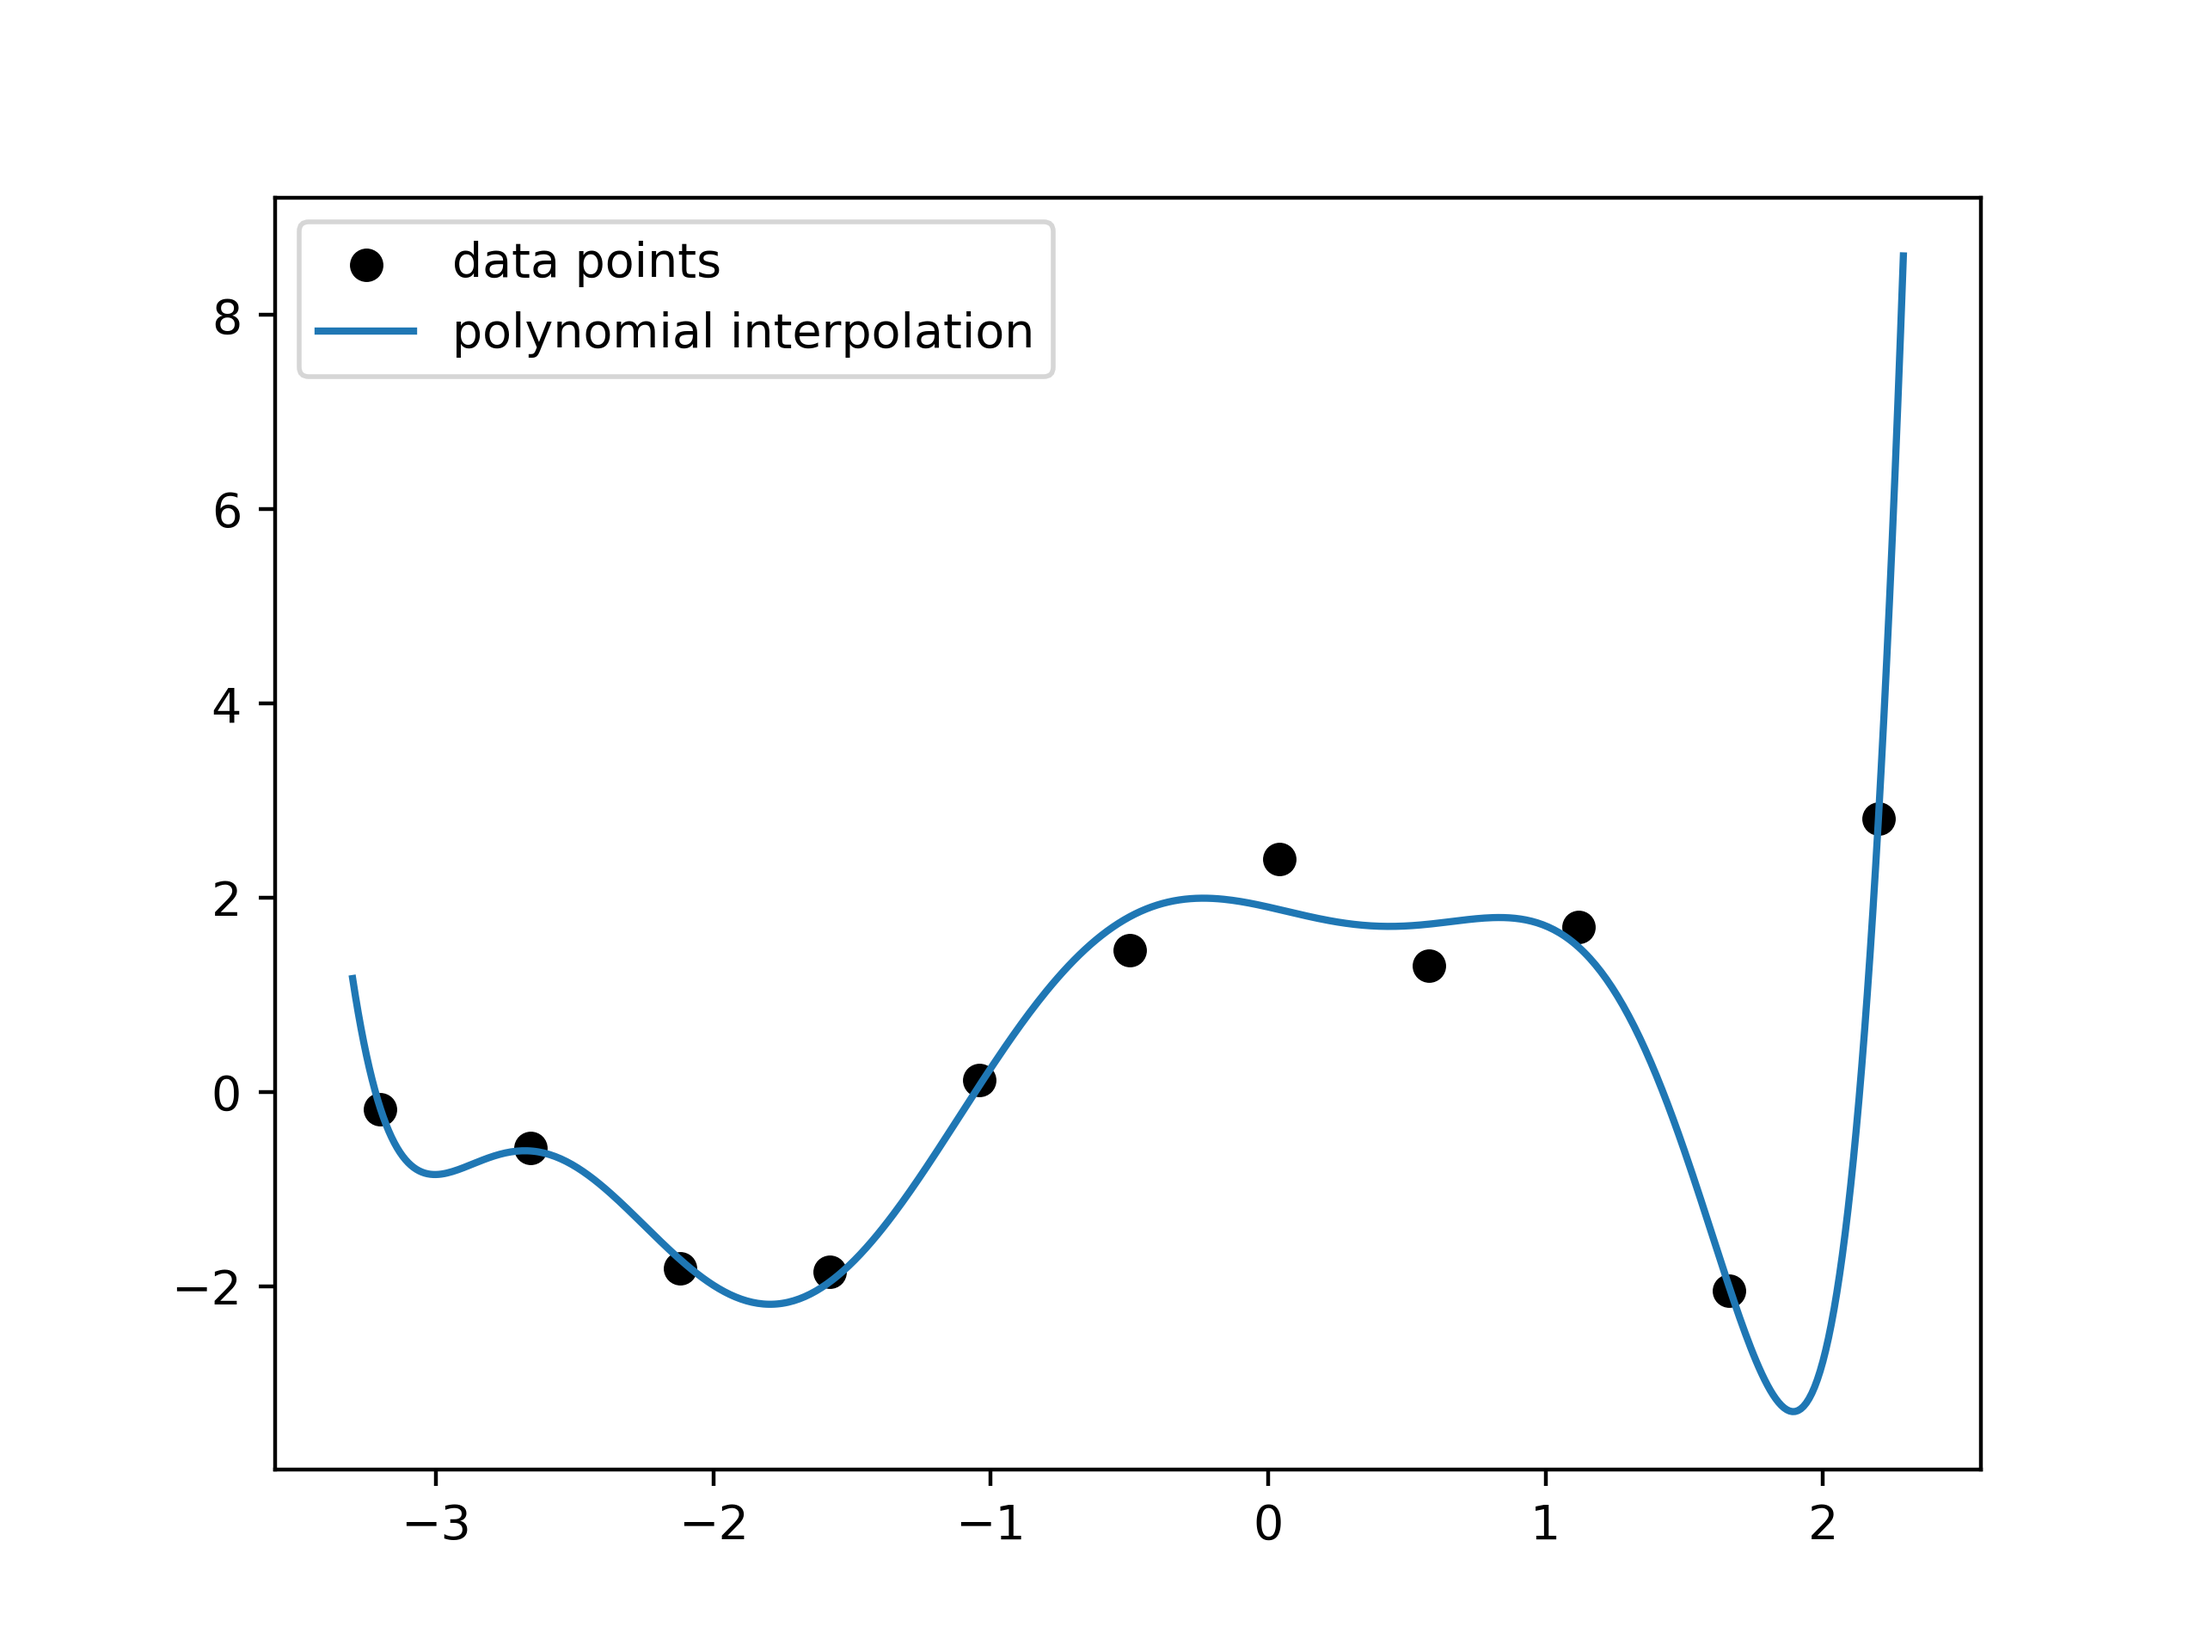
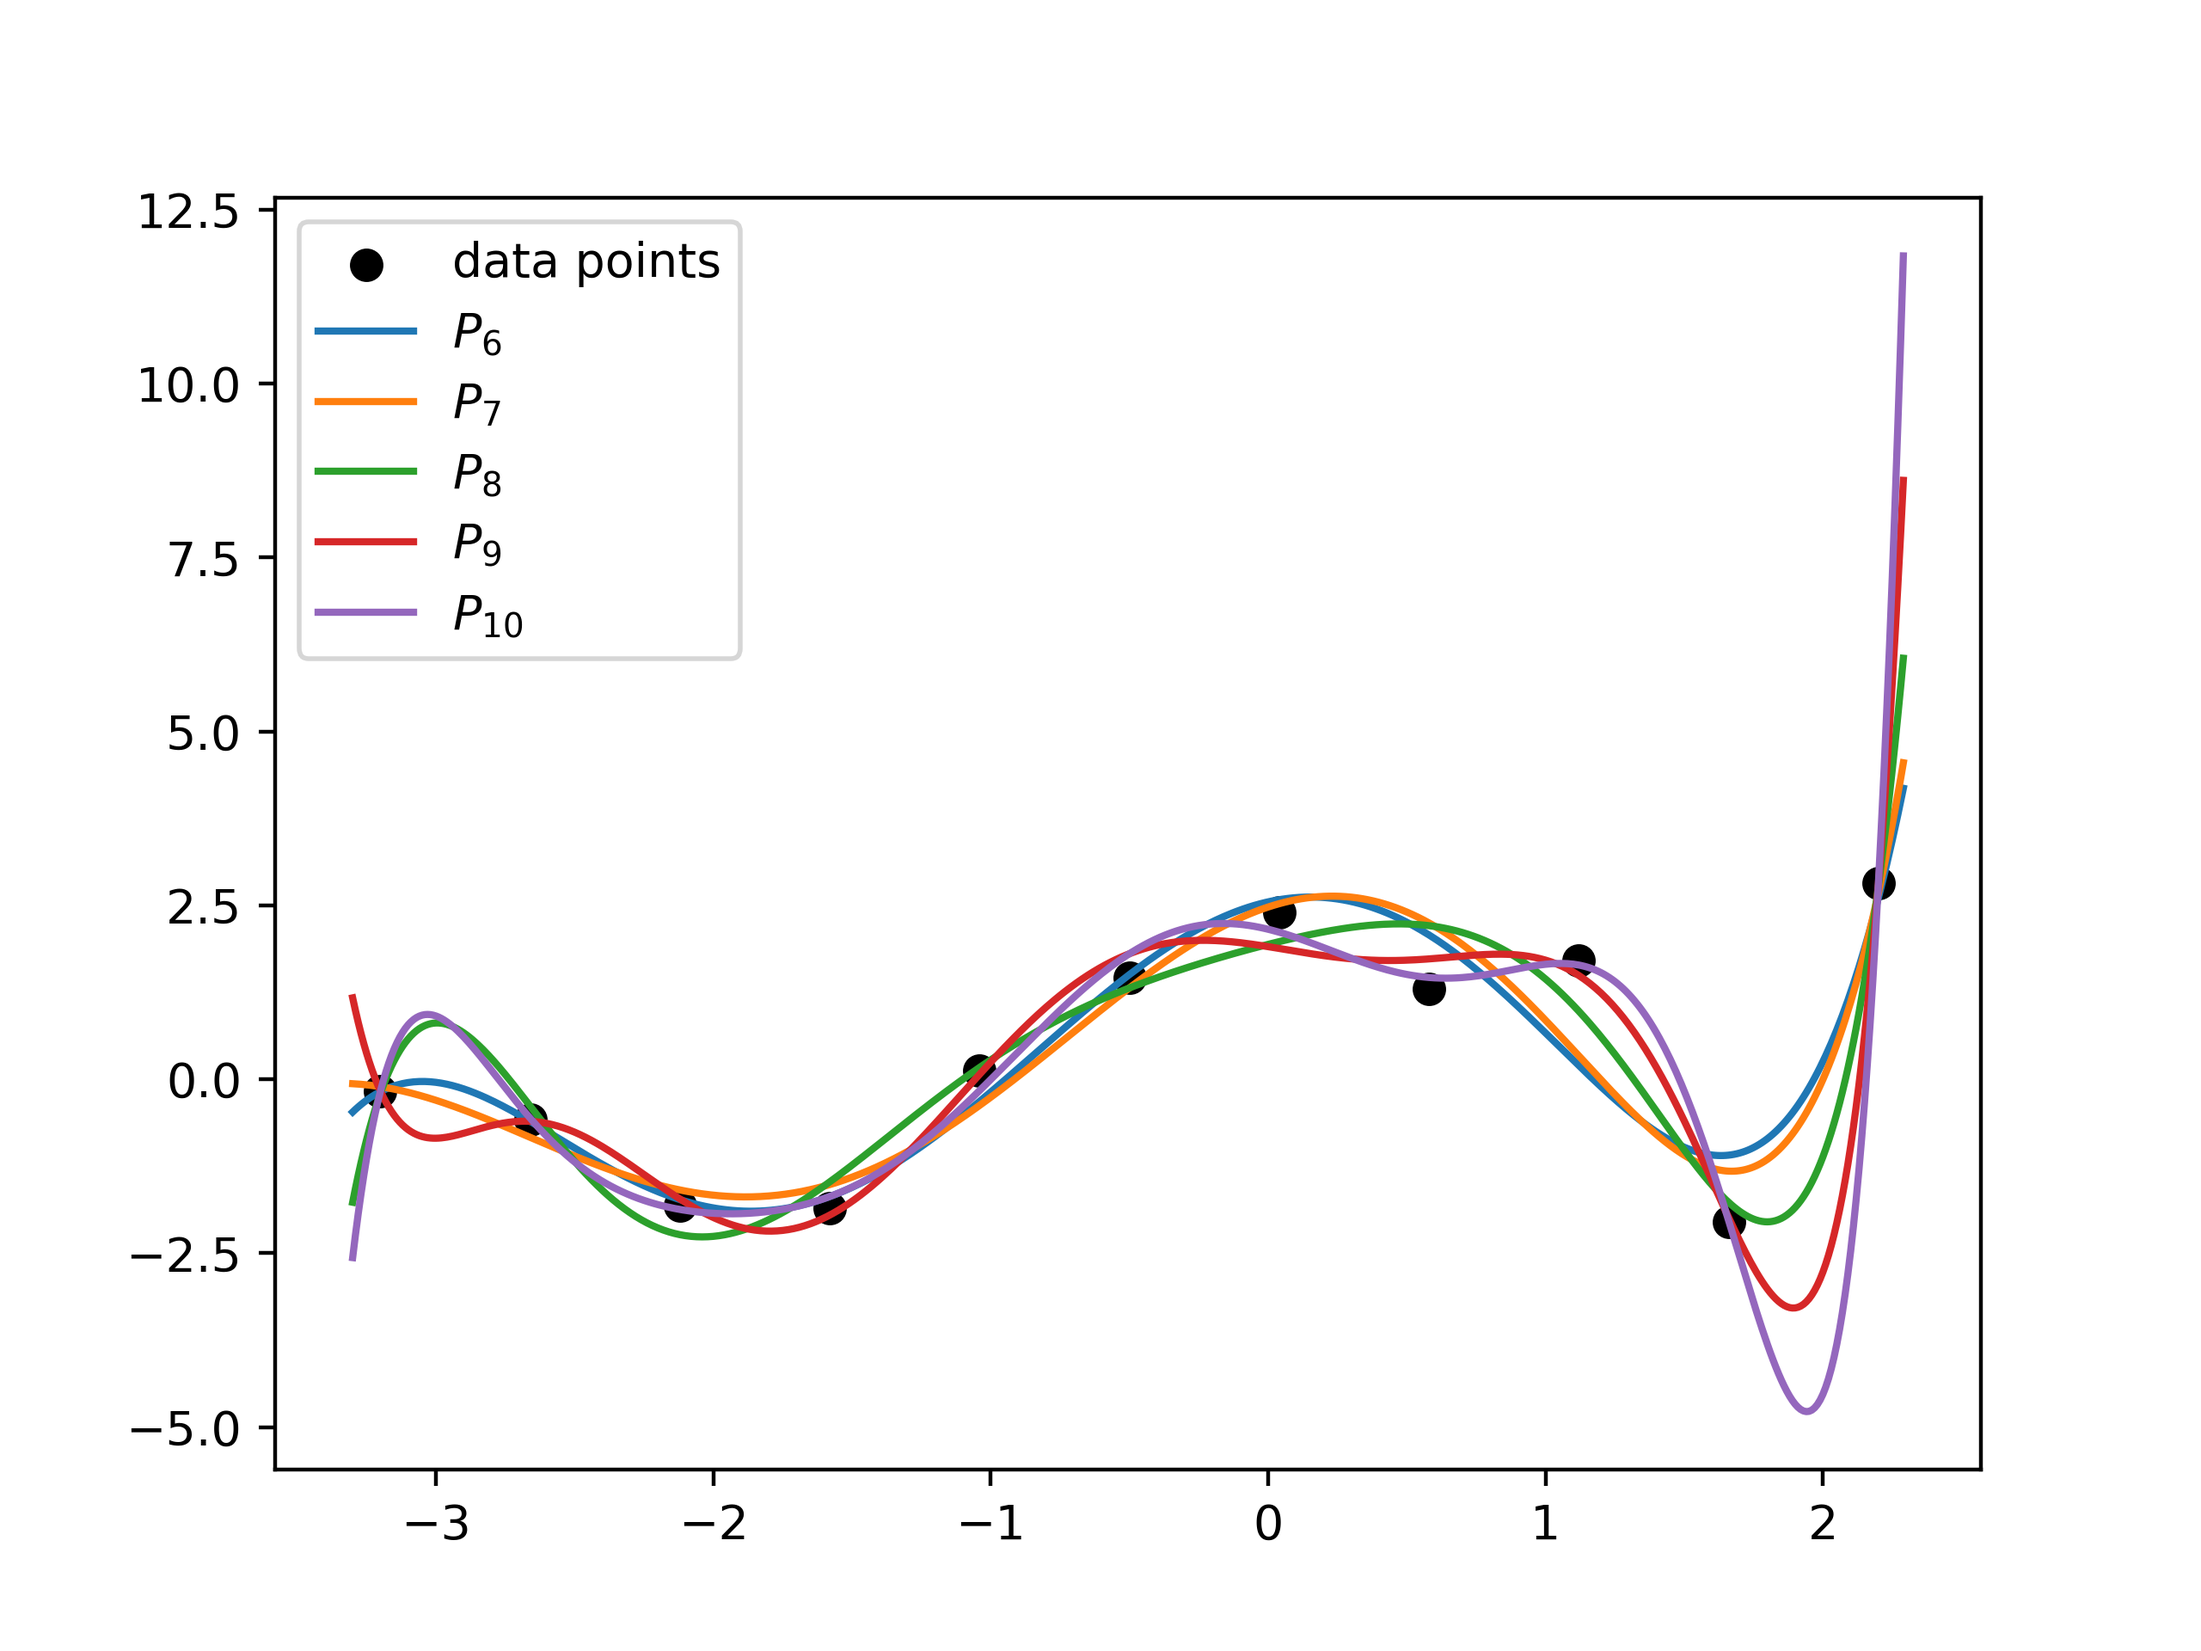
fixed lstsq task

diff --git a/lab06/src/least_squares.py b/lab06/src/least_squares.py
@@ -20,21 +20,23 @@ def approximate(x, y, m):
         weight = lstsq(x, y, m)
         sigma[m] = np.sqrt((1 / (n - m)) * ((y - X.dot(weight)) ** 2).sum())
         weights[m] = weight
-    plt.plot(sigma.keys(), sigma.values())
+    plt.bar(sigma.keys(), sigma.values())
     plt.xlabel('m')
     plt.savefig('plots/histogram_lstsq.png', dpi=400)
     plt.close()
     print('Enter optimal M = ', end='')
     optimal = int(input())
-    return weights[optimal], optimal
+    return weights, optimal
 
 
-def plot(weights, m, x, y):
+def plot(weights, ms, x, y):
     xs = np.arange(min(x) - 0.1, max(x) + 0.1, 0.01)
-    X = np.stack([xs ** k for k in range(m)]).T
-    Y = X.dot(weights)
     plt.scatter(x, y, label='data points', color='black')
-    plt.plot(xs, Y, label='polynomial interpolation')
+    for m in ms:
+        w = weights[m]
+        X = np.stack([xs ** k for k in range(m)]).T
+        Y = X.dot(w)
+        plt.plot(xs, Y, label=f'$P_{ {m} }$')
     plt.legend()
     plt.savefig('plots/least_squares.png', dpi=400)
     plt.close()
@@ -44,5 +46,5 @@ x = np.array([-3.2, -2.66, -2.12, -1.58, -1.04, -0.5, 0.04, 0.58, 1.12, 1.66, 2.
 y = np.array([-0.173, -0.574, -1.811, -1.849, 0.123, 1.462, 2.399, 1.3, 1.703, -2.045, 2.817])
 n = len(x)
 
-optimal_weights, optimal_m = approximate(x, y, 11)
-plot(optimal_weights, optimal_m, x, y)
+weights, optimal_m = approximate(x, y, 11)
+plot(weights, range(6, 11), x, y)
